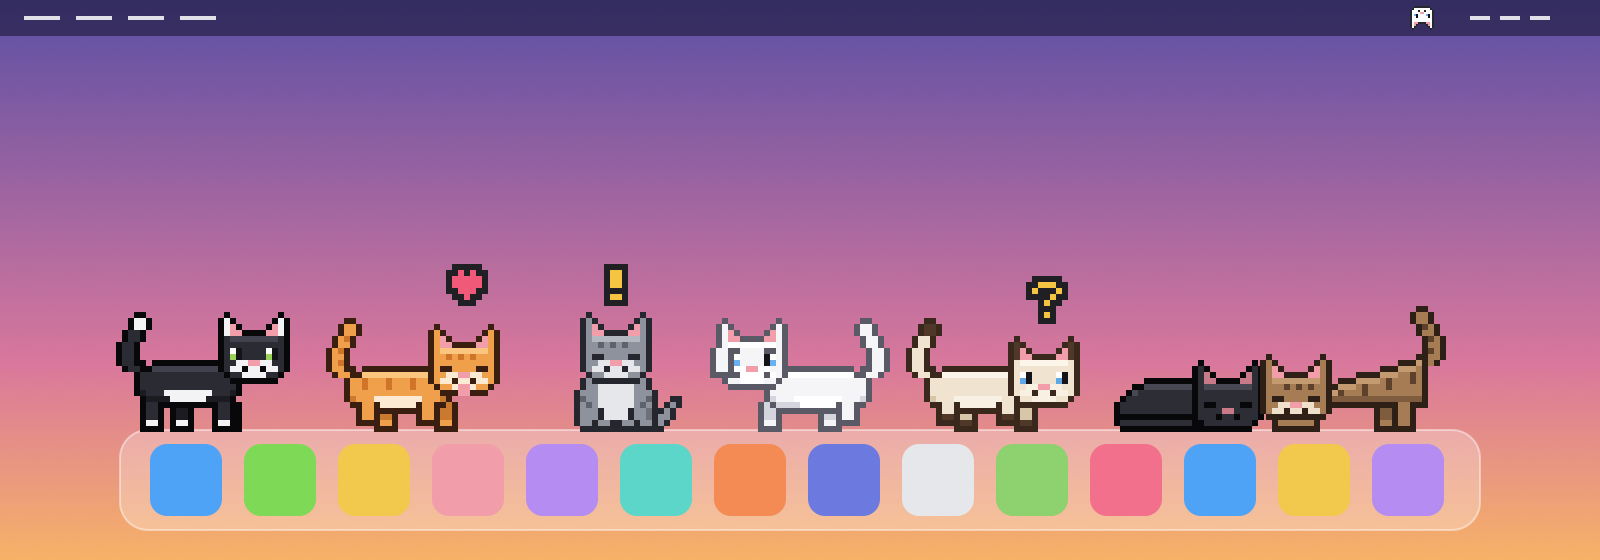
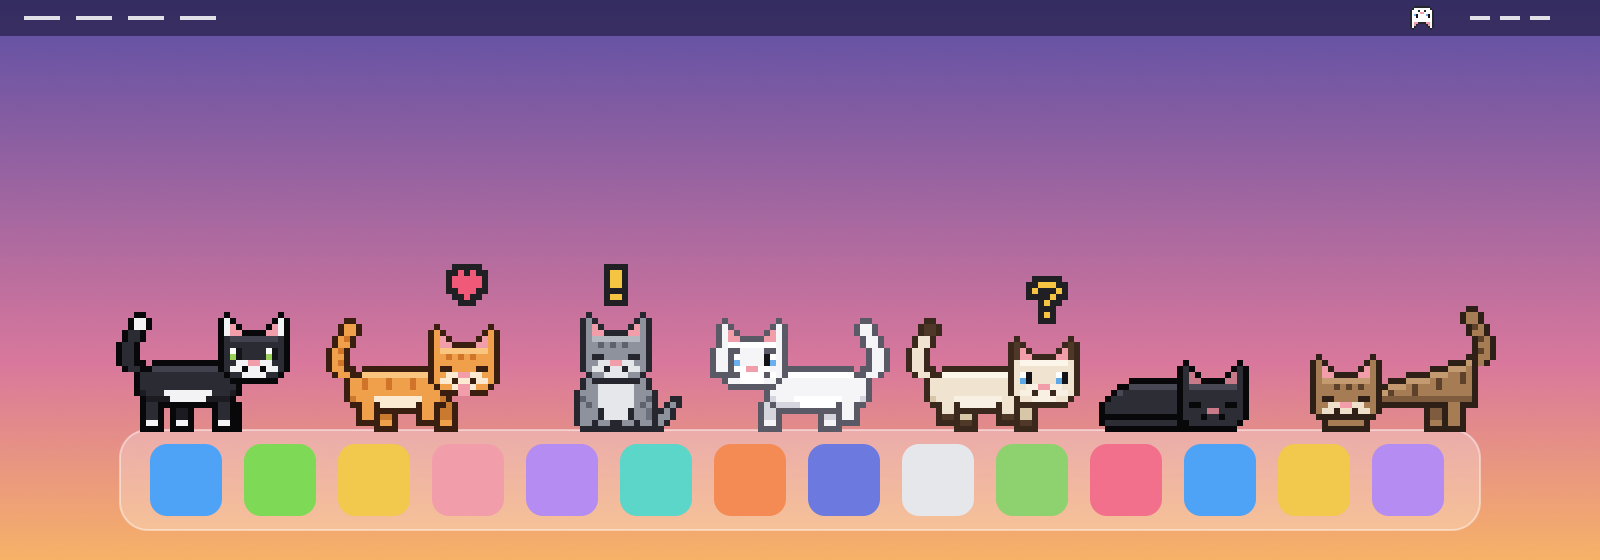
Preview: afasta os dois últimos gatos

Changed region(s): [[0.6875, 0.5464, 0.9375, 0.7893]]

diff --git a/Tools/preview/main.swift b/Tools/preview/main.swift
@@ -45,8 +45,8 @@ let cenas: [(String, Pose, Int, Emote?, Bool, CGFloat)] = [
     ("cinza", .sentadoFeliz, 0, .exclamacao, false, 520),
     ("branco", .tapa, 0, nil, true, 710),
     ("siames", .cheirando, 0, .interrogacao, false, 900),
-    ("preto", .dormindo, 0, nil, false, 1090),
-    ("rajado", .espreguicando, 0, nil, true, 1260),
+    ("preto", .dormindo, 0, nil, false, 1075),
+    ("rajado", .espreguicando, 0, nil, true, 1310),
 ]
 for (id, pose, q, emote, espelhar, x) in cenas {
     let origem = CGPoint(x: x, y: dockTopo - CGFloat(Sprite.altura) * px + 2)
